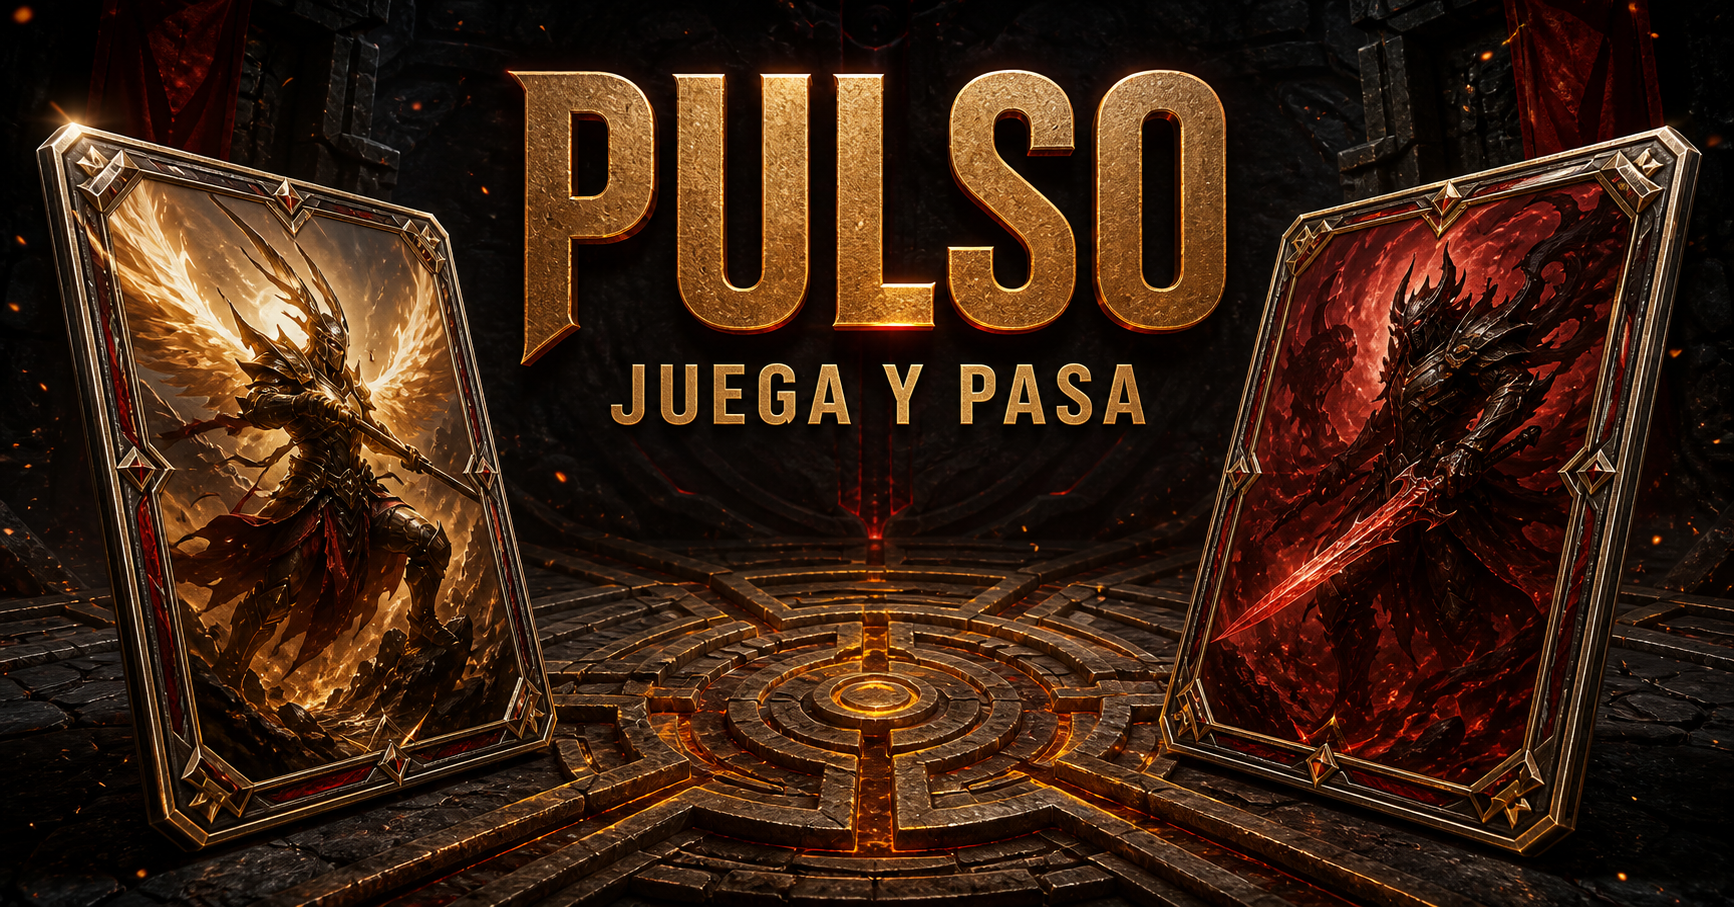
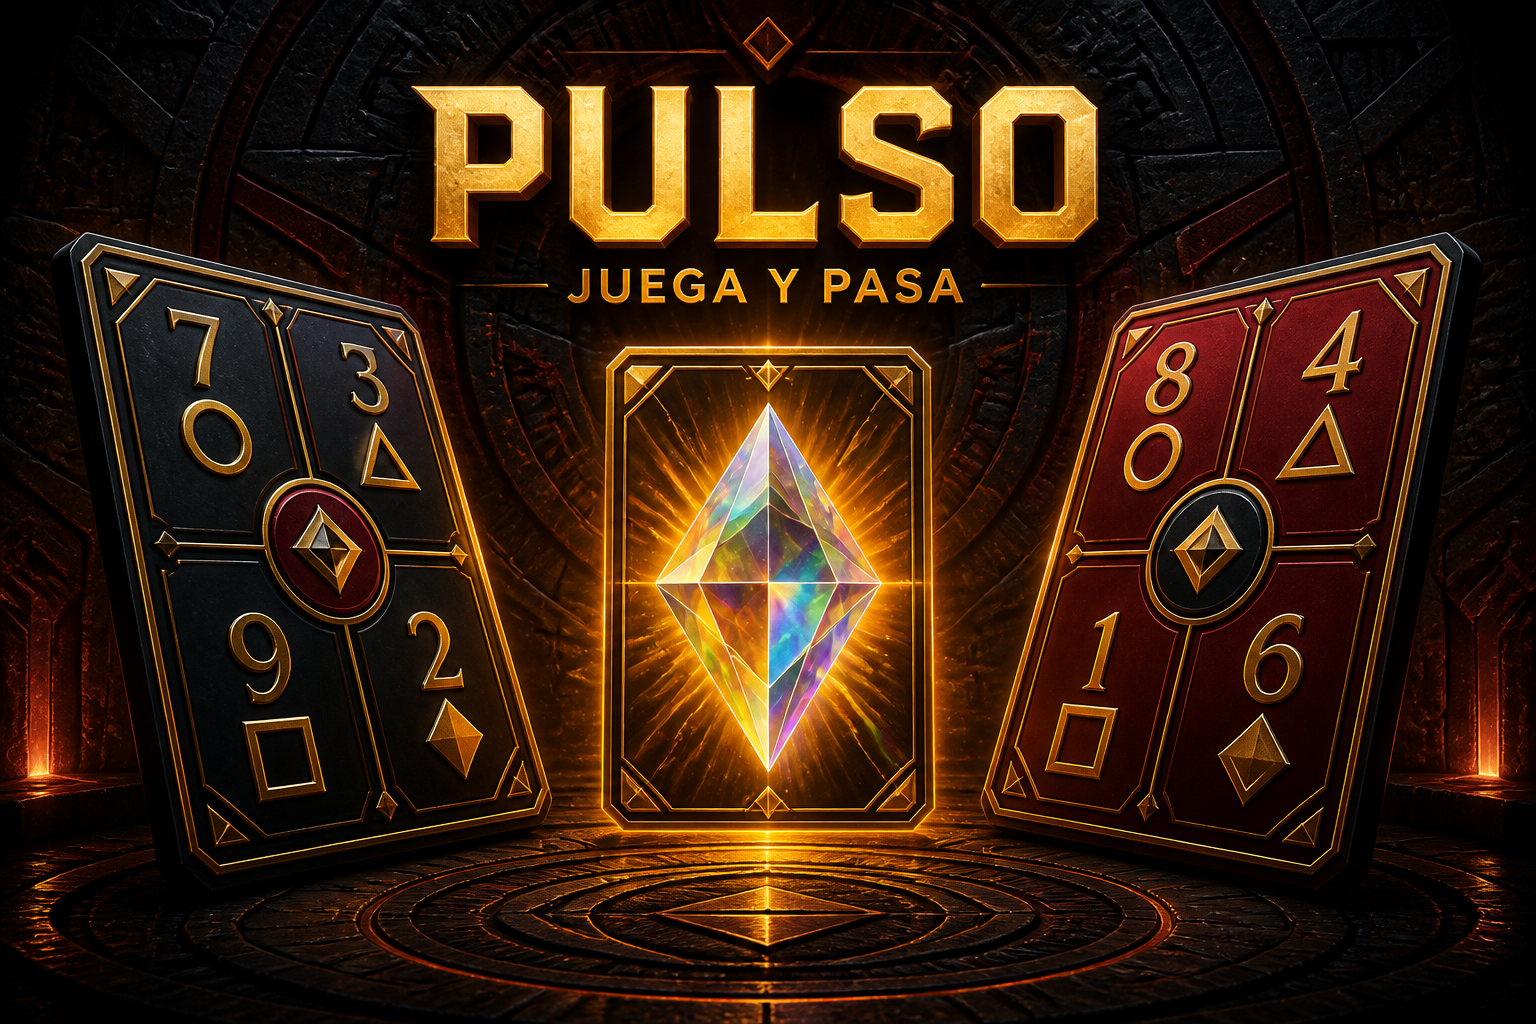
Replace elemental cards with geometric specials

diff --git a/app/page.tsx b/app/page.tsx
@@ -2,13 +2,14 @@
 
 import { useState, type CSSProperties } from 'react';
 
-type Suit = 'fuego' | 'marea' | 'bosque' | 'rayo';
+type Suit = 'circulo' | 'triangulo' | 'cuadrado' | 'rombo';
 type Phase = 'attack' | 'defend' | 'chain' | 'result';
+type CardKind = 'strike' | 'shield' | 'prism' | 'breaker' | 'mirror';
 
 type Card = {
   id: string;
-  kind: 'strike' | 'shield';
-  suit: Suit | 'guardia';
+  kind: CardKind;
+  suit: Suit | 'guardia' | 'prisma' | 'ruptura' | 'espejo';
   value: number;
   title: string;
 };
@@ -42,13 +43,16 @@ type Game = {
   winner: number | null;
 };
 
-const SUITS: Suit[] = ['fuego', 'marea', 'bosque', 'rayo'];
-const SUIT_DATA: Record<Suit | 'guardia', { label: string; symbol: string }> = {
-  fuego: { label: 'Fuego', symbol: '▲' },
-  marea: { label: 'Marea', symbol: '≈' },
-  bosque: { label: 'Bosque', symbol: '✦' },
-  rayo: { label: 'Rayo', symbol: 'ϟ' },
+const SUITS: Suit[] = ['circulo', 'triangulo', 'cuadrado', 'rombo'];
+const SUIT_DATA: Record<Card['suit'], { label: string; symbol: string }> = {
+  circulo: { label: 'Círculo', symbol: '●' },
+  triangulo: { label: 'Triángulo', symbol: '▲' },
+  cuadrado: { label: 'Cuadrado', symbol: '■' },
+  rombo: { label: 'Rombo', symbol: '◆' },
   guardia: { label: 'Guardia', symbol: '◆' },
+  prisma: { label: 'Prisma', symbol: '✦' },
+  ruptura: { label: 'Ruptura', symbol: '!' },
+  espejo: { label: 'Espejo', symbol: '↔' },
 };
 
 function shuffle<T>(items: T[]) {
@@ -62,7 +66,7 @@ function shuffle<T>(items: T[]) {
 
 function createDeck(): Card[] {
   const strikes = SUITS.flatMap((suit) =>
-    Array.from({ length: 9 }, (_, index) => {
+    Array.from({ length: 8 }, (_, index) => {
       const value = index + 2;
       return {
         id: `${suit}-${value}`,
@@ -73,14 +77,19 @@ function createDeck(): Card[] {
       };
     }),
   );
-  const shields: Card[] = Array.from({ length: 4 }, (_, index) => ({
+  const shields: Card[] = Array.from({ length: 3 }, (_, index) => ({
     id: `guardia-${index}`,
     kind: 'shield',
     suit: 'guardia',
     value: 0,
     title: 'Escudo total',
   }));
-  return shuffle([...strikes, ...shields]);
+  const specials: Card[] = [
+    ...Array.from({ length: 2 }, (_, index) => ({ id: `prisma-${index}`, kind: 'prism' as const, suit: 'prisma' as const, value: 9, title: 'Prisma' })),
+    ...Array.from({ length: 2 }, (_, index) => ({ id: `ruptura-${index}`, kind: 'breaker' as const, suit: 'ruptura' as const, value: 7, title: 'Ruptura' })),
+    ...Array.from({ length: 2 }, (_, index) => ({ id: `espejo-${index}`, kind: 'mirror' as const, suit: 'espejo' as const, value: 0, title: 'Espejo' })),
+  ];
+  return shuffle([...strikes, ...shields, ...specials]);
 }
 
 function drawToLimit(hand: Card[], deck: Card[], limit = 6) {
@@ -123,20 +132,27 @@ function newGame(): Game {
 }
 
 function attackPower(card: Card, suddenDeath: boolean) {
-  return card.kind === 'shield' && suddenDeath ? 2 : card.value;
+  return (card.kind === 'shield' || card.kind === 'mirror') && suddenDeath ? 2 : card.value;
+}
+
+function isAttackCard(card: Card, suddenDeath: boolean) {
+  return ['strike', 'prism', 'breaker'].includes(card.kind) || suddenDeath;
 }
 
 function canDefend(card: Card, attack: Card, trump: Suit, suddenDeath: boolean) {
-  if (card.kind === 'shield') return true;
+  if (card.kind === 'shield' || card.kind === 'mirror') return true;
+  if (card.kind === 'prism') return attack.kind !== 'prism' && card.value > attackPower(attack, suddenDeath);
   if (card.kind !== 'strike') return false;
-  if (attack.kind === 'shield') return suddenDeath && (card.value > 2 || card.suit === trump);
+  if (attack.kind === 'breaker') return card.suit === trump;
+  if (attack.kind === 'prism') return false;
+  if (attack.kind === 'shield' || attack.kind === 'mirror') return suddenDeath && (card.value > 2 || card.suit === trump);
   if (attack.suit === trump) return card.suit === trump && card.value > attack.value;
   return (card.suit === attack.suit && card.value > attack.value) || card.suit === trump;
 }
 
 function canChain(card: Card, previous: Card, suddenDeath: boolean) {
-  const playable = card.kind === 'strike' || suddenDeath;
-  return playable && (card.suit === previous.suit || attackPower(card, suddenDeath) === attackPower(previous, suddenDeath));
+  const playable = isAttackCard(card, suddenDeath);
+  return playable && (card.kind === 'prism' || previous.kind === 'prism' || card.suit === previous.suit || attackPower(card, suddenDeath) === attackPower(previous, suddenDeath));
 }
 
 function playTone(kind: 'card' | 'block' | 'hit' | 'start', enabled: boolean) {
@@ -167,6 +183,7 @@ function CardFace({ card, compact = false, selected = false, disabled = false, i
   table?: boolean;
 }) {
   const data = SUIT_DATA[card.suit];
+  const ability = card.kind === 'prism' ? 'Combina con todo' : card.kind === 'breaker' ? 'Solo dominante' : card.kind === 'mirror' ? 'Refleja 2' : null;
   const Tag = onClick ? 'button' : 'div';
   return (
     <Tag
@@ -175,13 +192,13 @@ function CardFace({ card, compact = false, selected = false, disabled = false, i
       onClick={onClick}
       disabled={onClick ? disabled : undefined}
       aria-pressed={onClick ? selected : undefined}
-      aria-label={`${card.title} de ${data.label}${card.kind === 'strike' ? `, fuerza ${card.value}` : ''}`}
+      aria-label={`${card.title} de ${data.label}${['strike', 'prism', 'breaker'].includes(card.kind) ? `, fuerza ${card.value}` : ''}`}
     >
       <span className="card-edge" aria-hidden="true" />
-      <span className="corner-value">{card.kind === 'shield' ? data.symbol : card.value}</span>
+      <span className="corner-value">{['shield', 'mirror'].includes(card.kind) ? data.symbol : card.value}</span>
       <span className="card-art" aria-hidden="true"><i>{data.symbol}</i><em /></span>
-      <span className="card-copy"><strong>{card.title}</strong><small>{data.label}</small></span>
-      <span className="corner-value corner-bottom">{card.kind === 'shield' ? data.symbol : card.value}</span>
+      <span className="card-copy"><strong>{card.title}</strong><small>{ability ?? data.label}</small></span>
+      <span className="corner-value corner-bottom">{['shield', 'mirror'].includes(card.kind) ? data.symbol : card.value}</span>
     </Tag>
   );
 }
@@ -239,7 +256,7 @@ export default function Home() {
   const playAttack = () => {
     if (!game || !['attack', 'chain'].includes(game.phase) || !selected) return;
     const card = game.players[game.attacker].hand.find((item) => item.id === selected);
-    const playable = card && (card.kind === 'strike' || game.suddenDeath);
+    const playable = card && isAttackCard(card, game.suddenDeath);
     const previous = game.attacks.at(-1);
     if (!card || !playable || (game.phase === 'chain' && previous && !canChain(card, previous, game.suddenDeath))) return;
     const players = game.players.map((player) => ({ ...player, hand: [...player.hand] })) as [Player, Player];
@@ -275,10 +292,29 @@ export default function Home() {
     if (blocked) {
       players[defender].pulse = Math.min(3, players[defender].pulse + 1);
       nextAttacker = defender;
-      result = defense.kind === 'shield' ? '¡Escudo total!' : '¡Ataque bloqueado!';
+      result = defense.kind === 'mirror' ? '¡Espejo!' : defense.kind === 'shield' ? '¡Escudo total!' : defense.kind === 'prism' ? '¡Prisma perfecto!' : '¡Ataque bloqueado!';
       resultDetail = game.attacks.length < 3 ? 'El atacante puede retirarse o redoblar.' : 'Cadena máxima detenida. El defensor gana el ataque.';
       triggerImpact('block');
       playTone('block', soundOn);
+
+      if (defense.kind === 'mirror') {
+        players[game.attacker].health = Math.max(0, players[game.attacker].health - 2);
+        if (players[game.attacker].health === 0) winner = defender;
+        setGame({
+          ...game,
+          players,
+          defenses,
+          phase: 'result',
+          nextAttacker: defender,
+          result: '¡Espejo! -2 al atacante',
+          resultDetail: 'La cadena termina inmediatamente y el defensor gana el ataque.',
+          winner,
+          secretAttack: false,
+        });
+        setSelected(null);
+        setSecretChoice(false);
+        return;
+      }
 
       if (game.attacks.length < 3) {
         setGame({ ...game, players, defenses, viewer: game.attacker, phase: 'chain', nextAttacker, result, resultDetail, secretAttack: false });
@@ -289,7 +325,8 @@ export default function Home() {
       }
     } else {
       const chainBonus = game.attacks.length - 1;
-      const damage = Math.max(2, Math.ceil((attackPower(currentAttack, game.suddenDeath) + game.attackBonus) / 3)) + chainBonus;
+      const ruptureBonus = currentAttack.kind === 'breaker' ? 2 : 0;
+      const damage = Math.max(2, Math.ceil((attackPower(currentAttack, game.suddenDeath) + game.attackBonus) / 3)) + chainBonus + ruptureBonus;
       players[defender].health = Math.max(0, players[defender].health - damage);
       result = game.attacks.length > 1 ? `¡Cadena rota! -${damage}` : defense ? `Defensa rota: -${damage}` : `-${damage} de vida`;
       resultDetail = `${game.secretAttack ? `${currentAttack.title} ${attackPower(currentAttack, game.suddenDeath)} revelado. ` : ''}${players[game.attacker].name} mantiene el ataque.`;
@@ -377,8 +414,8 @@ export default function Home() {
     return (
       <main className="game-shell menu-screen">
         <div className="menu-deck" aria-hidden="true">
-          <CardFace card={{ id: 'menu-fire', kind: 'strike', suit: 'fuego', value: 9, title: 'Asalto' }} />
-          <CardFace card={{ id: 'menu-tide', kind: 'strike', suit: 'marea', value: 7, title: 'Carga' }} />
+          <CardFace card={{ id: 'menu-circle', kind: 'strike', suit: 'circulo', value: 9, title: 'Círculo' }} />
+          <CardFace card={{ id: 'menu-prism', kind: 'prism', suit: 'prisma', value: 9, title: 'Prisma' }} />
           <div className="versus-stamp">VS</div>
         </div>
         <p className="eyebrow">Duelo local para dos</p>
@@ -402,7 +439,7 @@ export default function Home() {
   const currentAttack = game.attacks.at(-1) ?? null;
   const currentDefense = game.defenses.length === game.attacks.length ? game.defenses.at(-1) ?? null : null;
   const selectedCanDefend = !!(selectedCard && currentAttack && (game.secretAttack || canDefend(selectedCard, currentAttack, game.trump, game.suddenDeath)));
-  const selectedIsAttack = !!selectedCard && (selectedCard.kind === 'strike' || game.suddenDeath);
+  const selectedIsAttack = !!selectedCard && isAttackCard(selectedCard, game.suddenDeath);
   const canAttack = selectedIsAttack && (game.phase !== 'chain' || !currentAttack || canChain(selectedCard, currentAttack, game.suddenDeath));
 
   if (screen === 'winner') {
@@ -483,7 +520,7 @@ export default function Home() {
           {self.hand.map((card, index) => {
             const invalidDefense = defending && !!currentAttack && !game.secretAttack && !canDefend(card, currentAttack, game.trump, game.suddenDeath);
             const attackPhase = game.phase === 'attack' || game.phase === 'chain';
-            const playableAttack = card.kind === 'strike' || game.suddenDeath;
+            const playableAttack = isAttackCard(card, game.suddenDeath);
             const invalidAttack = attackPhase && (!playableAttack || (game.phase === 'chain' && !!currentAttack && !canChain(card, currentAttack, game.suddenDeath)));
             return <CardFace card={card} key={card.id} index={index} selected={selected === card.id} disabled={game.phase === 'result'} onClick={() => setSelected(selected === card.id ? null : card.id)} compact={invalidDefense || invalidAttack} />;
           })}
@@ -492,7 +529,7 @@ export default function Home() {
           {(game.phase === 'attack' || game.phase === 'chain') && <>
             {game.phase === 'chain' && <button className="take-hit-button retreat-button" onClick={retreatFromChain}>Retirarse</button>}
             <button className={`secret-button ${secretChoice ? 'active' : ''}`} disabled={game.secretUsed[game.attacker]} onClick={() => setSecretChoice(!secretChoice)} title="Oculta una carta una vez por partida">{game.secretUsed[game.attacker] ? 'Oculta usada' : secretChoice ? 'Oculta lista' : 'Jugada oculta'}</button>
-            <button className="play-button" disabled={!canAttack} onClick={playAttack}>{secretChoice ? 'Jugar boca abajo' : game.phase === 'chain' ? `Redoblar ×${game.attacks.length + 1}` : game.players[game.attacker].pulse === 3 ? 'Atacar con +2' : game.suddenDeath && selectedCard?.kind === 'shield' ? 'Embestida 2' : 'Jugar ataque'}</button>
+            <button className="play-button" disabled={!canAttack} onClick={playAttack}>{secretChoice ? 'Jugar boca abajo' : game.phase === 'chain' ? `Redoblar ×${game.attacks.length + 1}` : game.players[game.attacker].pulse === 3 ? 'Atacar con +2' : game.suddenDeath && selectedCard && !isAttackCard(selectedCard, false) ? 'Embestida 2' : 'Jugar ataque'}</button>
           </>}
           {game.phase === 'defend' && <>
             <button className="take-hit-button" onClick={() => resolveDefense(null)}>Recibir golpe</button>
@@ -530,6 +567,7 @@ function RulesModal({ onClose }: { onClose: () => void }) {
           <li><b>Llena Impulso.</b><span>Tres defensas exitosas dan +2 al siguiente ataque.</span></li>
           <li><b>Encadena.</b><span>Tras un bloqueo, retírate o añade una carta del mismo símbolo o valor. Puedes llegar a tres ataques.</span></li>
           <li><b>Engaña.</b><span>Cada jugador puede lanzar una única carta boca abajo durante la partida.</span></li>
+          <li><b>Usa especiales.</b><span>Prisma combina con cualquier figura, Ruptura atraviesa defensas normales y Espejo devuelve 2 de daño.</span></li>
           <li><b>Sobrevive.</b><span>Al agotarse el mazo empieza la muerte súbita y los escudos atacan con fuerza 2.</span></li>
         </ol>
         <p className="rules-win">Gana quien deje al rival sin vida.</p>

diff --git a/app/globals.css b/app/globals.css
@@ -151,13 +151,25 @@ button:focus-visible { outline: 3px solid #fff; outline-offset: 3px; }
 .card-copy { position: absolute; inset: auto 7px 9px; display: flex; flex-direction: column; align-items: center; z-index: 3; text-transform: uppercase; }
 .card-copy strong { font-size: 10px; line-height: 1.1; }
 .card-copy small { margin-top: 2px; color: #ffffffb9; font-size: 8px; font-weight: 800; }
-.card-fuego { --card-color: linear-gradient(145deg, #ec654e, #882b3b); }
-.card-marea { --card-color: linear-gradient(145deg, #50afce, #25528c); }
-.card-bosque { --card-color: linear-gradient(145deg, #62aa62, #275e4b); }
-.card-rayo { --card-color: linear-gradient(145deg, #bb6bd0, #5c3a88); }
+.card-circulo { --card-color: linear-gradient(145deg, #e55252, #8c253d); }
+.card-triangulo { --card-color: linear-gradient(145deg, #e2ad3d, #87552b); }
+.card-cuadrado { --card-color: linear-gradient(145deg, #3ca5cb, #28558d); }
+.card-rombo { --card-color: linear-gradient(145deg, #61ae6c, #28604f); }
+.card-circulo .card-art i { border-radius: 50%; }
+.card-triangulo .card-art i { border-radius: 2px; clip-path: polygon(50% 0, 100% 100%, 0 100%); padding-top: 18px; }
+.card-cuadrado .card-art i { border-radius: 1px; }
+.card-rombo .card-art i { border-radius: 2px; transform: rotate(45deg); }
 .card-guardia { --card-color: linear-gradient(145deg, #d2a854, #75512b); }
 .card-guardia .card-art i { border-radius: 8px; transform: rotate(45deg); }
 .card-guardia .card-art i::first-letter { transform: rotate(-45deg); }
+.card-prisma { --card-color: conic-gradient(from 35deg, #d6576f, #d6b34f, #4caac9, #7f6ed0, #d6576f); }
+.card-prisma::after { height: 3px; background: #fff9; box-shadow: 0 0 14px white; }
+.card-prisma .card-art i { background: #ffffff21; border-color: white; box-shadow: 0 0 0 5px #ffffff24, 0 0 24px #fff8; animation: prism-glow 1.4s ease-in-out infinite alternate; }
+.card-ruptura { --card-color: repeating-linear-gradient(135deg, #d94645 0 16px, #5b1e2b 16px 32px); }
+.card-ruptura .card-art i { border-color: #ffd077; background: #1b1117; color: #ffcf65; font-size: 43px; box-shadow: 0 0 0 5px #ffb8461f, 0 0 27px #ff593b99; }
+.card-espejo { --card-color: linear-gradient(135deg, #e3e7ec, #56849d 42%, #1d334b 58%, #9ed5df); color: #fff; }
+.card-espejo .card-art i { border-color: white; background: linear-gradient(135deg, #ffffffb8, #5aa0ba 48%, #fff 52%, #2a506b); box-shadow: 0 0 0 5px #ffffff26, 0 0 25px #b9f3ff99; }
+@keyframes prism-glow { to { filter: brightness(1.35); transform: rotate(8deg) scale(1.06); } }
 
 .card-back {
   position: relative;
